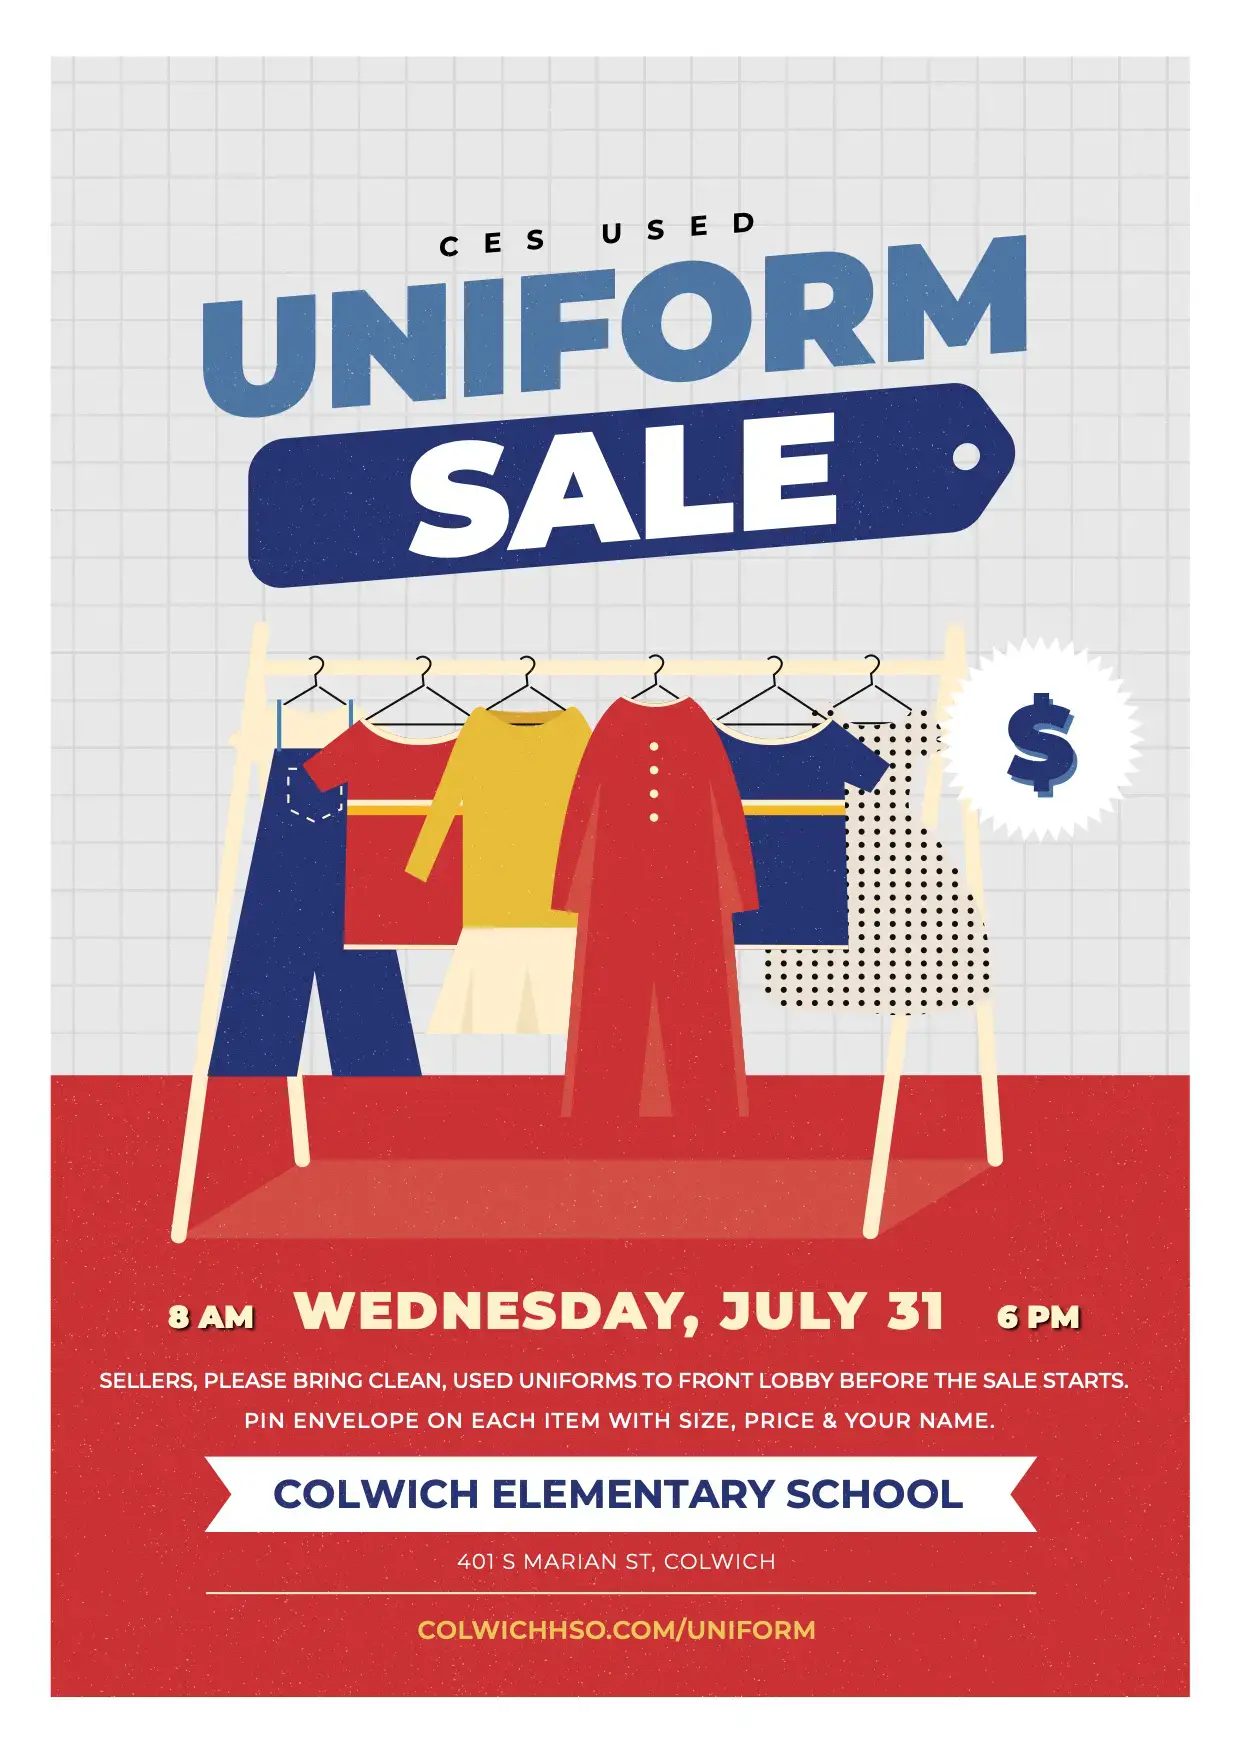
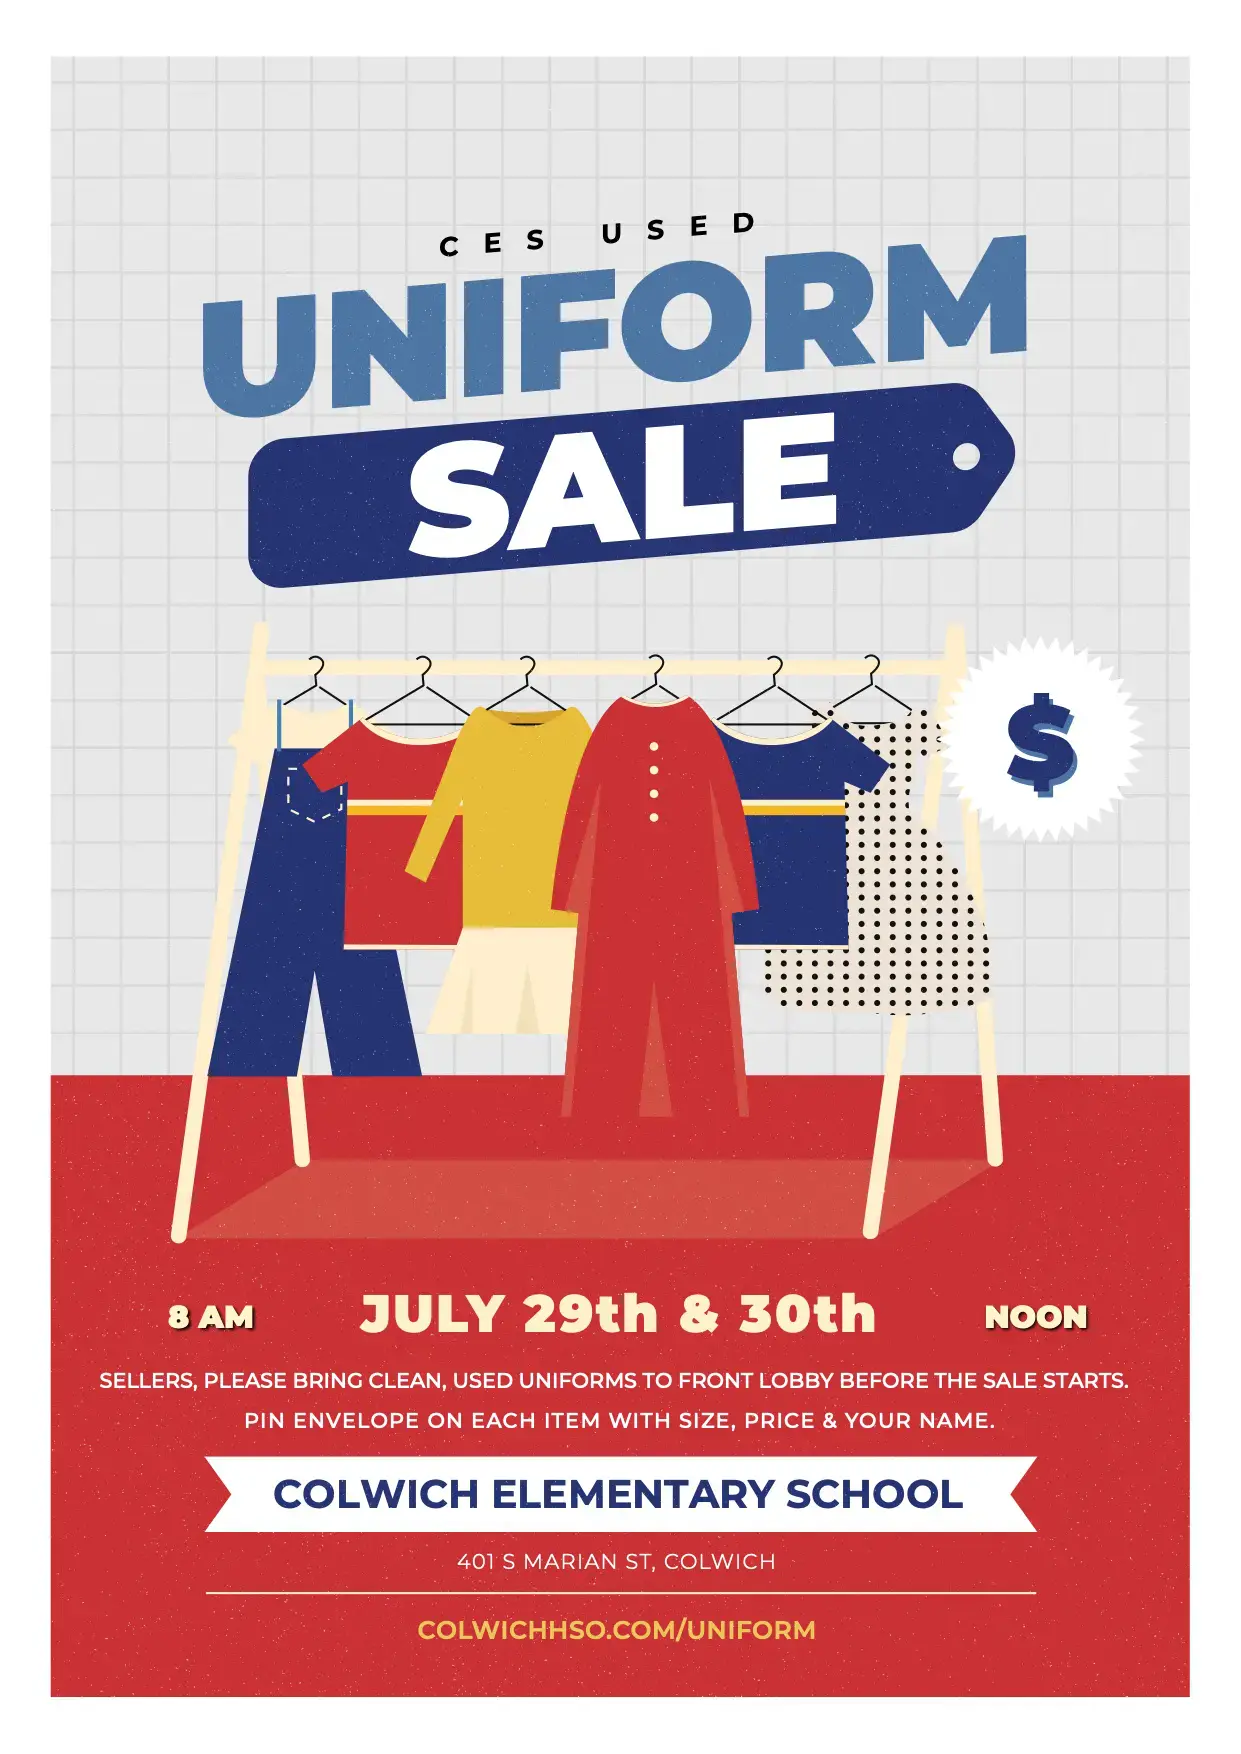
uniform sale and calendar year

Changed region(s): [[0.245, 0.7389, 0.7655, 0.7697], [0.7961, 0.7389, 0.888, 0.7697]]

diff --git a/public/appreciation1/index.html b/public/appreciation1/index.html
@@ -86,7 +86,7 @@
 					  <a href="/volunteer">Volunteer Information</a>
 					  <a href="/roomparent/">Become a Room Parent</a>
 					  <a href="/meetings">Attend Our Meetings</a>
-					  <a href="/calendar">2024-2025 Calendar</a>
+					  <a href="/calendar">2025-2026 Calendar</a>
 					  <a href="https://test-3116.creator-spring.com">Shop HSO Products</a>
 				  </div>
 			</li>
@@ -427,7 +427,7 @@
 			<div class="content">
 
 				
-					<h2>2024-2025 Schedule</h2>
+					<h2>2025-2026 Schedule</h2>
 					<h3>A look at our upcoming events.</h3>
 				
 
@@ -574,7 +574,7 @@
 		<img class="icon" src="/images/icons/calendar.svg" loading="lazy" alt="calendar Icon" />
 	</span>
 	<span class="buttonText">
-		View Full 2024-2025 Calendar
+		View Full 2025-2026 Calendar
 	</span>
 </a>
 

diff --git a/public/appreciation2/index.html b/public/appreciation2/index.html
@@ -86,7 +86,7 @@
 					  <a href="/volunteer">Volunteer Information</a>
 					  <a href="/roomparent/">Become a Room Parent</a>
 					  <a href="/meetings">Attend Our Meetings</a>
-					  <a href="/calendar">2024-2025 Calendar</a>
+					  <a href="/calendar">2025-2026 Calendar</a>
 					  <a href="https://test-3116.creator-spring.com">Shop HSO Products</a>
 				  </div>
 			</li>
@@ -427,7 +427,7 @@
 			<div class="content">
 
 				
-					<h2>2024-2025 Schedule</h2>
+					<h2>2025-2026 Schedule</h2>
 					<h3>A look at our upcoming events.</h3>
 				
 
@@ -574,7 +574,7 @@
 		<img class="icon" src="/images/icons/calendar.svg" loading="lazy" alt="calendar Icon" />
 	</span>
 	<span class="buttonText">
-		View Full 2024-2025 Calendar
+		View Full 2025-2026 Calendar
 	</span>
 </a>
 

diff --git a/public/calendar/index.html b/public/calendar/index.html
@@ -8,7 +8,7 @@
   <meta name="viewport" content="width=device-width, initial-scale=1.0, maximum-scale=5, viewport-fit=cover">
 
   
-  <title>Colwich HSO 2024-2025 Calendar 🗓</title>
+  <title>Colwich HSO 2025-2026 Calendar 🗓</title>
   <meta name="Description" content="Take a look at what we have planned for the upcoming school year.">
 
   
@@ -144,7 +144,7 @@
 
 		
 
-			<p><b>2024-2025 Calendar</b></p>
+			<p><b>2025-2026 Calendar</b></p>
 			<h1>Sync Up With Our Yearly Event Schedule 🗓 </h1>
 			<p class="summary"><mark>Click below to download our 2024-2025 calendar, which will keep your phone or computer in sync with our yearly events.</mark></p>
 

diff --git a/themes/ColwichTheme/layouts/partials/modules/navigation.html b/themes/ColwichTheme/layouts/partials/modules/navigation.html
@@ -16,7 +16,7 @@
 					  <a href="/volunteer">Volunteer Information</a>
 					  <a href="/roomparent/">Become a Room Parent</a>
 					  <a href="/meetings">Attend Our Meetings</a>
-					  <a href="/calendar">2024-2025 Calendar</a>
+					  <a href="/calendar">2025-2026 Calendar</a>
 					  <a href="https://test-3116.creator-spring.com">Shop HSO Products</a>
 				  </div>
 			</li>

diff --git a/themes/ColwichTheme/layouts/partials/modules/footer.html b/themes/ColwichTheme/layouts/partials/modules/footer.html
@@ -12,7 +12,7 @@
 	<li class="listName">Get Involved</li>
 	<li><a href="/membership">HSO Membership</a></li>
 	<li><a href="/donate">Make a Donation</a></li>
-	<li><a href="/calendar">2024-2025 Calendar</a></li>
+	<li><a href="/calendar">2025-2026 Calendar</a></li>
 	<li><a href="/meetings">Attend Our Meetings</a></li>
 </ul>
 <ul>

diff --git a/themes/ColwichTheme/layouts/partials/modules/calendar.html b/themes/ColwichTheme/layouts/partials/modules/calendar.html
@@ -7,5 +7,5 @@
 </ul>
 
 <div class="moduleCTA">
-{{ partial "button.html"  (dict "link" "/calendar" "class" "primary" "icon" "calendar" "text" "View Full 2024-2025 Calendar") }}
+{{ partial "button.html"  (dict "link" "/calendar" "class" "primary" "icon" "calendar" "text" "View Full 2025-2026 Calendar") }}
 </div>

diff --git a/content/events/uniformsales.md b/content/events/uniformsales.md
@@ -2,8 +2,9 @@
 title: CES Used Uniform Sale 👕
 description: Prepare for the new school year with our used uniform sales. 
 type: events
-event_date: 2024-07-31 08:00:00 +0000
+event_date: 2025-07-29 08:00:00 +0000
 url: "/uniform"
+page_status: active
 fullUrl: "https://colwichhso.com/uniform"
 pageImage: "https://colwichhso.com/images/flyers/UniformSaleOpenGraph.jpg"
 faq_category: uniform
@@ -25,4 +26,4 @@ polaroid:
 - /images/flyers/UniformSaleWeb.jpg
 - /images/flyers/UniformSaleWeb.jpg
 ---
-Prepare for the new school year with our used uniform sales. Stop by during enrollment on **July 31st**, from **8am** to **6pm**, to shop used uniforms.
+Prepare for the new school year with our used uniform sales. Stop by on **July 29th** and **July 30th**, from **8am** to **Noon**, to shop used uniforms.

diff --git a/content/events/_index.md b/content/events/_index.md
@@ -1,13 +1,13 @@
 ---
-title: Colwich HSO 2024-2025 Calendar 🗓
+title: Colwich HSO 2025-2026 Calendar 🗓
 description: Take a look at what we have planned for the upcoming school year.
 type: events
 date: 2022-06-03 14:59:46 +0000
 url: "/calendar"
 fullUrl: "https://colwichhso.com/calendar"
-subtitle: 2024-2025 Calendar
+subtitle: 2025-2026 Calendar
 shoutout: Sync Up With Our Yearly Event Schedule 🗓
-overview: Click below to download our 2024-2025 calendar, which will keep your phone or computer in sync with our yearly events.
+overview: Click below to download our 2025-2026 calendar, which will keep your phone or computer in sync with our yearly events.
 ctatext: Sync Your Calendar
 ctalink: calendar
 ctaicon: calendar

diff --git a/content/modules/common/calendar_full.md b/content/modules/common/calendar_full.md
@@ -1,5 +1,5 @@
 ---
-title: 2024-2025 Schedule
+title: 2025-2026 Schedule
 id: modules/common/calendar_full.md
 type: module
 module_type: calendar_full

diff --git a/content/modules/common/calendar.md b/content/modules/common/calendar.md
@@ -1,5 +1,5 @@
 ---
-title: 2024-2025 Schedule
+title: 2025-2026 Schedule
 id: modules/common/calendar.md
 type: module
 module_type: calendar
